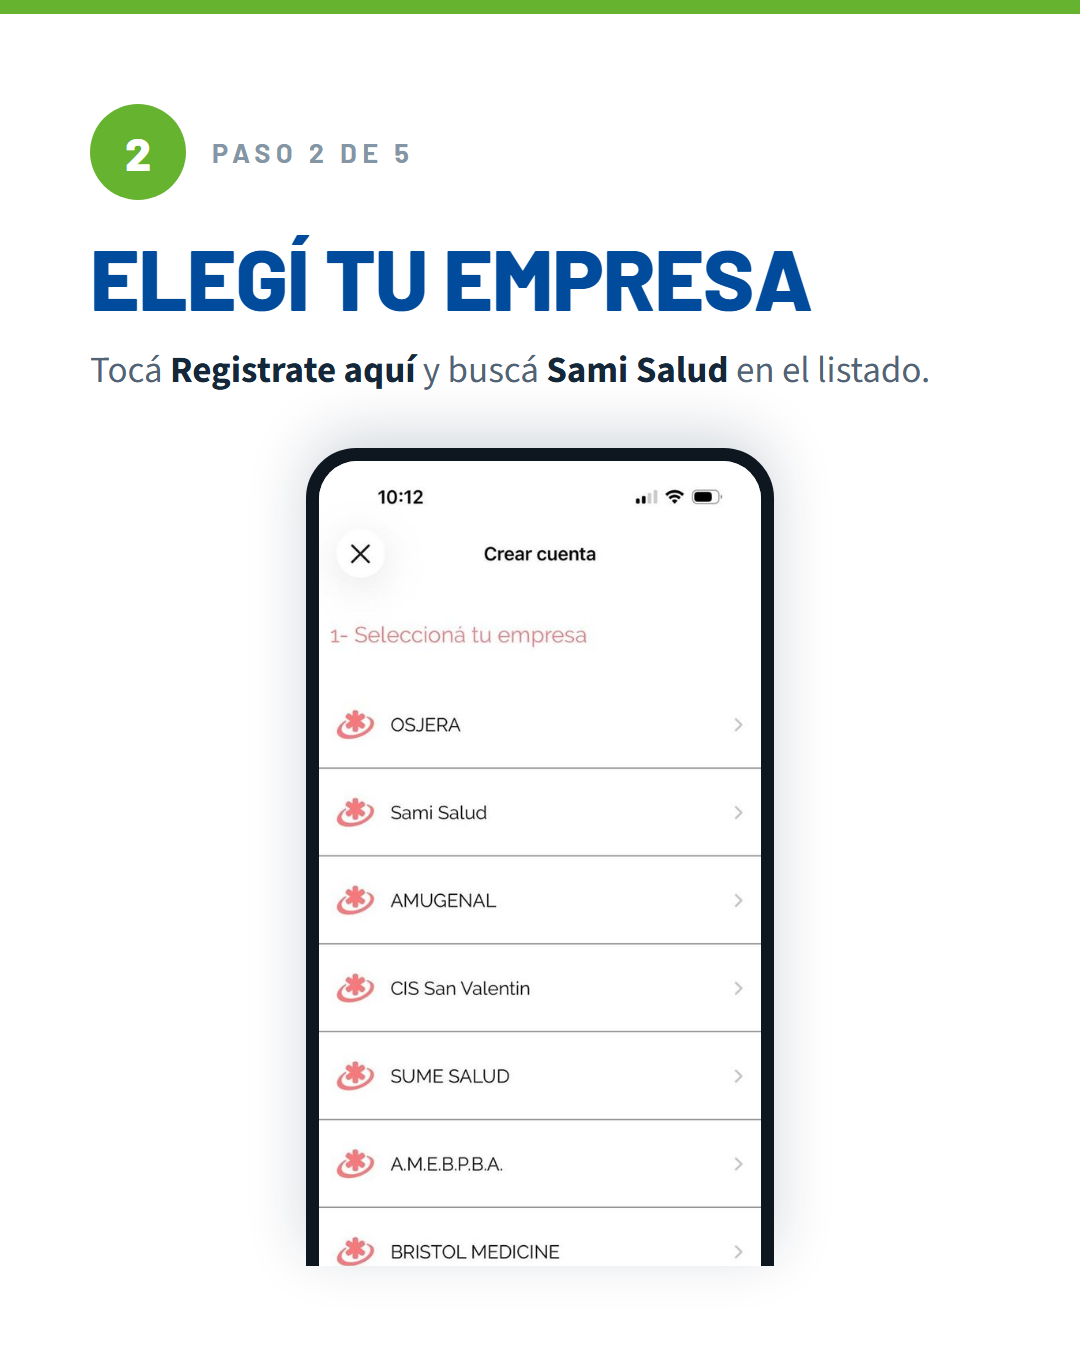
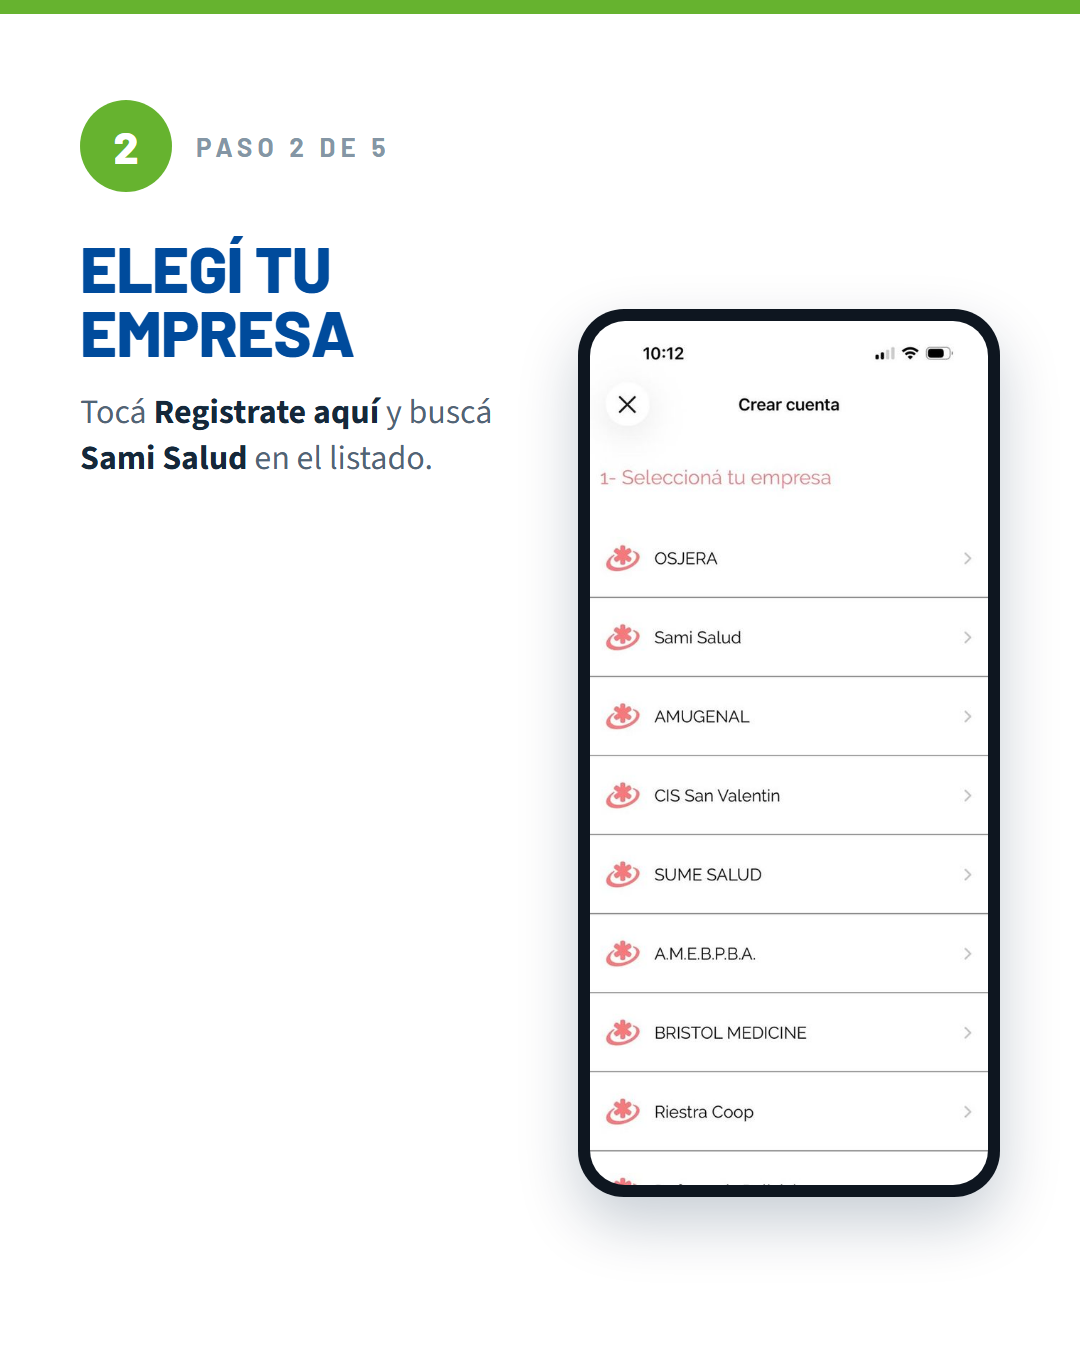
Muestra la captura completa en las placas de pasos
Las cinco placas de pasos pasan a texto y telefono lado a lado. Antes la
captura se recortaba a la mitad con object-fit cover: en el paso 4 eso cortaba
el modal de especialidades justo donde arranca la lista, que es lo que el paso
explica.

Los titulos quedan alineados arriba en las cinco, asi la secuencia no salta al
deslizar, y el telefono centrado al costado.

Claude-Session: https://claude.ai/code/session_01TkhpLYmWCBEFxFt42UGiKe

Changed region(s): [[0.0611, 0.1556, 0.9472, 0.9333], [0.0611, 0.0622, 0.3972, 0.1556]]

diff --git a/instagram/Cierre.dc.html b/instagram/Cierre.dc.html
@@ -14,28 +14,29 @@
   </style>
 </helmet>
 
-<div style="width: 1080px; height: 1350px; position: relative; overflow: hidden; background: #ffffff; display: flex; flex-direction: column; padding: 104px 90px 268px; box-sizing: border-box;">
+<div style="width: 1080px; height: 1350px; position: relative; overflow: hidden; background: #ffffff; display: flex; flex-direction: column; padding: 100px 80px 268px; box-sizing: border-box;">
 
   <div style="position: absolute; left: 0; top: 0; width: 1080px; height: 14px; background: #66B32F;"></div>
 
-  <div style="display: flex; align-items: center; gap: 26px;">
-    <div style="width: 96px; height: 96px; flex: none; border-radius: 50%; background: #66B32F; color: #ffffff; font-family: 'Barlow', 'Helvetica Neue', Arial, sans-serif; font-weight: 800; font-size: 46px; display: flex; align-items: center; justify-content: center;">5</div>
-    <div style="font-family: 'Barlow', 'Helvetica Neue', Arial, sans-serif; font-weight: 700; font-size: 27px; letter-spacing: 0.2em; text-transform: uppercase; color: #8496A5;">Paso 5 de 5</div>
+  <div style="display: flex; align-items: center; gap: 24px;">
+    <div style="width: 92px; height: 92px; flex: none; border-radius: 50%; background: #66B32F; color: #ffffff; font-family: 'Barlow', 'Helvetica Neue', Arial, sans-serif; font-weight: 800; font-size: 44px; display: flex; align-items: center; justify-content: center;">5</div>
+    <div style="font-family: 'Barlow', 'Helvetica Neue', Arial, sans-serif; font-weight: 700; font-size: 26px; letter-spacing: 0.2em; text-transform: uppercase; color: #8496A5;">Paso 5 de 5</div>
   </div>
 
-  <h2 style="margin: 34px 0 0; font-family: 'Barlow', 'Helvetica Neue', Arial, sans-serif; font-weight: 800; font-size: 86px; line-height: 1.0; letter-spacing: -0.012em; text-transform: uppercase; color: #004B9C;">Esperá tu llamada</h2>
+  <div style="flex: 1; min-height: 0; display: flex; align-items: stretch; gap: 54px; margin-top: 44px;">
 
-  <p style="margin: 26px 0 0; font-size: 37px; line-height: 1.35; color: #516475; text-wrap: pretty;">La app te muestra cuántas personas hay adelante tuyo. Cuando se libera un médico, te llama.</p>
-
-  <div style="flex: 1; min-height: 0; display: flex; justify-content: center; align-items: flex-end; margin-top: 46px;">
-    <div style="width: 452px; height: 100%; background: #0E1620; border-radius: 48px 48px 0 0; padding: 13px 13px 0; box-sizing: border-box;">
-      <div style="height: 100%; border-radius: 36px 36px 0 0; overflow: hidden; background: #fff;">
-        <img src="app-05-espera.jpg" alt="Sala de espera con la cantidad de personas en la fila" style="width: 100%; height: 100%; object-fit: cover; object-position: top center; display: block;">
-      </div>
+    <div style="flex: 1; min-width: 0; display: flex; flex-direction: column; justify-content: flex-start;">
+      <h2 style="margin: 0; font-family: 'Barlow', 'Helvetica Neue', Arial, sans-serif; font-weight: 800; font-size: 64px; line-height: 1.0; letter-spacing: -0.012em; text-transform: uppercase; color: #004B9C;">Esperá tu llamada</h2>
+      <p style="margin: 26px 0 0; font-size: 34px; line-height: 1.36; color: #516475; text-wrap: pretty;">La app te muestra cuántas personas hay adelante tuyo. Cuando se libera un médico, te llama.</p>
     </div>
+
+    <div style="flex: none; align-self: center; width: 390px; background: #0E1620; border-radius: 44px; padding: 12px; box-sizing: border-box; box-shadow: 0 26px 60px rgba(0,32,66,0.22);">
+      <img src="app-05-espera.jpg" alt="Sala de espera con la cantidad de personas en la fila" style="width: 100%; height: auto; display: block; border-radius: 33px;">
+    </div>
+
   </div>
 
-  <div style="position: absolute; left: 0; bottom: 0; width: 1080px; height: 236px; background: #004B9C; display: flex; align-items: center; gap: 44px; padding: 0 90px; box-sizing: border-box;">
+  <div style="position: absolute; left: 0; bottom: 0; width: 1080px; height: 236px; background: #004B9C; display: flex; align-items: center; gap: 44px; padding: 0 80px; box-sizing: border-box;">
     <img src="sami-logo-blanco.png" alt="Sami Salud" style="width: 246px; height: auto; flex: none; display: block;">
     <div style="width: 3px; height: 108px; background: rgba(255,255,255,0.28); flex: none;"></div>
     <div style="display: flex; flex-direction: column; gap: 10px;">

diff --git a/instagram/Paso2.dc.html b/instagram/Paso2.dc.html
@@ -14,25 +14,26 @@
   </style>
 </helmet>
 
-<div style="width: 1080px; height: 1350px; position: relative; overflow: hidden; background: #ffffff; display: flex; flex-direction: column; padding: 104px 90px 84px; box-sizing: border-box;">
+<div style="width: 1080px; height: 1350px; position: relative; overflow: hidden; background: #ffffff; display: flex; flex-direction: column; padding: 100px 80px 80px; box-sizing: border-box;">
 
   <div style="position: absolute; left: 0; top: 0; width: 1080px; height: 14px; background: #66B32F;"></div>
 
-  <div style="display: flex; align-items: center; gap: 26px;">
-    <div style="width: 96px; height: 96px; flex: none; border-radius: 50%; background: #66B32F; color: #ffffff; font-family: 'Barlow', 'Helvetica Neue', Arial, sans-serif; font-weight: 800; font-size: 46px; display: flex; align-items: center; justify-content: center;">2</div>
-    <div style="font-family: 'Barlow', 'Helvetica Neue', Arial, sans-serif; font-weight: 700; font-size: 27px; letter-spacing: 0.2em; text-transform: uppercase; color: #8496A5;">Paso 2 de 5</div>
+  <div style="display: flex; align-items: center; gap: 24px;">
+    <div style="width: 92px; height: 92px; flex: none; border-radius: 50%; background: #66B32F; color: #ffffff; font-family: 'Barlow', 'Helvetica Neue', Arial, sans-serif; font-weight: 800; font-size: 44px; display: flex; align-items: center; justify-content: center;">2</div>
+    <div style="font-family: 'Barlow', 'Helvetica Neue', Arial, sans-serif; font-weight: 700; font-size: 26px; letter-spacing: 0.2em; text-transform: uppercase; color: #8496A5;">Paso 2 de 5</div>
   </div>
 
-  <h2 style="margin: 34px 0 0; font-family: 'Barlow', 'Helvetica Neue', Arial, sans-serif; font-weight: 800; font-size: 86px; line-height: 1.0; letter-spacing: -0.012em; text-transform: uppercase; color: #004B9C;">Elegí tu empresa</h2>
+  <div style="flex: 1; min-height: 0; display: flex; align-items: stretch; gap: 54px; margin-top: 44px;">
 
-  <p style="margin: 26px 0 0; font-size: 37px; line-height: 1.35; color: #516475; text-wrap: pretty;">Tocá <strong style="color: #15283A;">Registrate aquí</strong> y buscá <strong style="color: #15283A;">Sami Salud</strong> en el listado.</p>
-
-  <div style="flex: 1; min-height: 0; display: flex; justify-content: center; align-items: flex-end; margin-top: 52px;">
-    <div style="width: 468px; height: 100%; background: #0E1620; border-radius: 50px 50px 0 0; padding: 13px 13px 0; box-sizing: border-box; box-shadow: 0 -14px 60px rgba(0,32,66,0.18);">
-      <div style="height: 100%; border-radius: 38px 38px 0 0; overflow: hidden; background: #fff;">
-        <img src="app-02-empresa.jpg" alt="Lista de empresas con Sami Salud" style="width: 100%; height: 100%; object-fit: cover; object-position: top center; display: block;">
-      </div>
+    <div style="flex: 1; min-width: 0; display: flex; flex-direction: column; justify-content: flex-start;">
+      <h2 style="margin: 0; font-family: 'Barlow', 'Helvetica Neue', Arial, sans-serif; font-weight: 800; font-size: 64px; line-height: 1.0; letter-spacing: -0.012em; text-transform: uppercase; color: #004B9C;">Elegí tu empresa</h2>
+      <p style="margin: 26px 0 0; font-size: 34px; line-height: 1.36; color: #516475; text-wrap: pretty;">Tocá <strong style="color: #15283A;">Registrate aquí</strong> y buscá <strong style="color: #15283A;">Sami Salud</strong> en el listado.</p>
     </div>
+
+    <div style="flex: none; align-self: center; width: 422px; background: #0E1620; border-radius: 46px; padding: 12px; box-sizing: border-box; box-shadow: 0 26px 60px rgba(0,32,66,0.22);">
+      <img src="app-02-empresa.jpg" alt="Lista de empresas con Sami Salud" style="width: 100%; height: auto; display: block; border-radius: 35px;">
+    </div>
+
   </div>
 
 </div>

diff --git a/instagram/Paso3.dc.html b/instagram/Paso3.dc.html
@@ -14,25 +14,26 @@
   </style>
 </helmet>
 
-<div style="width: 1080px; height: 1350px; position: relative; overflow: hidden; background: #ffffff; display: flex; flex-direction: column; padding: 104px 90px 84px; box-sizing: border-box;">
+<div style="width: 1080px; height: 1350px; position: relative; overflow: hidden; background: #ffffff; display: flex; flex-direction: column; padding: 100px 80px 80px; box-sizing: border-box;">
 
   <div style="position: absolute; left: 0; top: 0; width: 1080px; height: 14px; background: #66B32F;"></div>
 
-  <div style="display: flex; align-items: center; gap: 26px;">
-    <div style="width: 96px; height: 96px; flex: none; border-radius: 50%; background: #66B32F; color: #ffffff; font-family: 'Barlow', 'Helvetica Neue', Arial, sans-serif; font-weight: 800; font-size: 46px; display: flex; align-items: center; justify-content: center;">3</div>
-    <div style="font-family: 'Barlow', 'Helvetica Neue', Arial, sans-serif; font-weight: 700; font-size: 27px; letter-spacing: 0.2em; text-transform: uppercase; color: #8496A5;">Paso 3 de 5</div>
+  <div style="display: flex; align-items: center; gap: 24px;">
+    <div style="width: 92px; height: 92px; flex: none; border-radius: 50%; background: #66B32F; color: #ffffff; font-family: 'Barlow', 'Helvetica Neue', Arial, sans-serif; font-weight: 800; font-size: 44px; display: flex; align-items: center; justify-content: center;">3</div>
+    <div style="font-family: 'Barlow', 'Helvetica Neue', Arial, sans-serif; font-weight: 700; font-size: 26px; letter-spacing: 0.2em; text-transform: uppercase; color: #8496A5;">Paso 3 de 5</div>
   </div>
 
-  <h2 style="margin: 34px 0 0; font-family: 'Barlow', 'Helvetica Neue', Arial, sans-serif; font-weight: 800; font-size: 86px; line-height: 1.0; letter-spacing: -0.012em; text-transform: uppercase; color: #004B9C;">Creá tu cuenta</h2>
+  <div style="flex: 1; min-height: 0; display: flex; align-items: stretch; gap: 54px; margin-top: 44px;">
 
-  <p style="margin: 26px 0 0; font-size: 37px; line-height: 1.35; color: #516475; text-wrap: pretty;">Completá tu <strong style="color: #15283A;">DNI</strong>, tu mail y una contraseña, y aceptá los términos y condiciones.</p>
-
-  <div style="flex: 1; min-height: 0; display: flex; justify-content: center; align-items: flex-end; margin-top: 52px;">
-    <div style="width: 468px; height: 100%; background: #0E1620; border-radius: 50px 50px 0 0; padding: 13px 13px 0; box-sizing: border-box; box-shadow: 0 -14px 60px rgba(0,32,66,0.18);">
-      <div style="height: 100%; border-radius: 38px 38px 0 0; overflow: hidden; background: #fff;">
-        <img src="app-03-cuenta.jpg" alt="Formulario de creación de cuenta" style="width: 100%; height: 100%; object-fit: cover; object-position: top center; display: block;">
-      </div>
+    <div style="flex: 1; min-width: 0; display: flex; flex-direction: column; justify-content: flex-start;">
+      <h2 style="margin: 0; font-family: 'Barlow', 'Helvetica Neue', Arial, sans-serif; font-weight: 800; font-size: 64px; line-height: 1.0; letter-spacing: -0.012em; text-transform: uppercase; color: #004B9C;">Creá tu cuenta</h2>
+      <p style="margin: 26px 0 0; font-size: 34px; line-height: 1.36; color: #516475; text-wrap: pretty;">Completá tu <strong style="color: #15283A;">DNI</strong>, tu mail y una contraseña, y aceptá los términos y condiciones.</p>
     </div>
+
+    <div style="flex: none; align-self: center; width: 422px; background: #0E1620; border-radius: 46px; padding: 12px; box-sizing: border-box; box-shadow: 0 26px 60px rgba(0,32,66,0.22);">
+      <img src="app-03-cuenta.jpg" alt="Formulario de creación de cuenta" style="width: 100%; height: auto; display: block; border-radius: 35px;">
+    </div>
+
   </div>
 
 </div>

diff --git a/instagram/Paso4.dc.html b/instagram/Paso4.dc.html
@@ -14,25 +14,26 @@
   </style>
 </helmet>
 
-<div style="width: 1080px; height: 1350px; position: relative; overflow: hidden; background: #ffffff; display: flex; flex-direction: column; padding: 104px 90px 84px; box-sizing: border-box;">
+<div style="width: 1080px; height: 1350px; position: relative; overflow: hidden; background: #ffffff; display: flex; flex-direction: column; padding: 100px 80px 80px; box-sizing: border-box;">
 
   <div style="position: absolute; left: 0; top: 0; width: 1080px; height: 14px; background: #66B32F;"></div>
 
-  <div style="display: flex; align-items: center; gap: 26px;">
-    <div style="width: 96px; height: 96px; flex: none; border-radius: 50%; background: #66B32F; color: #ffffff; font-family: 'Barlow', 'Helvetica Neue', Arial, sans-serif; font-weight: 800; font-size: 46px; display: flex; align-items: center; justify-content: center;">4</div>
-    <div style="font-family: 'Barlow', 'Helvetica Neue', Arial, sans-serif; font-weight: 700; font-size: 27px; letter-spacing: 0.2em; text-transform: uppercase; color: #8496A5;">Paso 4 de 5</div>
+  <div style="display: flex; align-items: center; gap: 24px;">
+    <div style="width: 92px; height: 92px; flex: none; border-radius: 50%; background: #66B32F; color: #ffffff; font-family: 'Barlow', 'Helvetica Neue', Arial, sans-serif; font-weight: 800; font-size: 44px; display: flex; align-items: center; justify-content: center;">4</div>
+    <div style="font-family: 'Barlow', 'Helvetica Neue', Arial, sans-serif; font-weight: 700; font-size: 26px; letter-spacing: 0.2em; text-transform: uppercase; color: #8496A5;">Paso 4 de 5</div>
   </div>
 
-  <h2 style="margin: 34px 0 0; font-family: 'Barlow', 'Helvetica Neue', Arial, sans-serif; font-weight: 800; font-size: 86px; line-height: 1.0; letter-spacing: -0.012em; text-transform: uppercase; color: #004B9C;">Pedí tu consulta</h2>
+  <div style="flex: 1; min-height: 0; display: flex; align-items: stretch; gap: 54px; margin-top: 44px;">
 
-  <p style="margin: 26px 0 0; font-size: 37px; line-height: 1.35; color: #516475; text-wrap: pretty;">Tocá <strong style="color: #15283A;">Sacar turno</strong> y elegí la especialidad del médico que querés que te atienda.</p>
-
-  <div style="flex: 1; min-height: 0; display: flex; justify-content: center; align-items: flex-end; margin-top: 52px;">
-    <div style="width: 468px; height: 100%; background: #0E1620; border-radius: 50px 50px 0 0; padding: 13px 13px 0; box-sizing: border-box; box-shadow: 0 -14px 60px rgba(0,32,66,0.18);">
-      <div style="height: 100%; border-radius: 38px 38px 0 0; overflow: hidden; background: #fff;">
-        <img src="app-04-especialidad.jpg" alt="Selección de especialidad" style="width: 100%; height: 100%; object-fit: cover; object-position: top center; display: block;">
-      </div>
+    <div style="flex: 1; min-width: 0; display: flex; flex-direction: column; justify-content: flex-start;">
+      <h2 style="margin: 0; font-family: 'Barlow', 'Helvetica Neue', Arial, sans-serif; font-weight: 800; font-size: 64px; line-height: 1.0; letter-spacing: -0.012em; text-transform: uppercase; color: #004B9C;">Pedí tu consulta</h2>
+      <p style="margin: 26px 0 0; font-size: 34px; line-height: 1.36; color: #516475; text-wrap: pretty;">Tocá <strong style="color: #15283A;">Sacar turno</strong> y elegí la especialidad del médico que querés que te atienda.</p>
     </div>
+
+    <div style="flex: none; align-self: center; width: 422px; background: #0E1620; border-radius: 46px; padding: 12px; box-sizing: border-box; box-shadow: 0 26px 60px rgba(0,32,66,0.22);">
+      <img src="app-04-especialidad.jpg" alt="Selección de especialidad" style="width: 100%; height: auto; display: block; border-radius: 35px;">
+    </div>
+
   </div>
 
 </div>

diff --git a/instagram/Paso1.dc.html b/instagram/Paso1.dc.html
@@ -14,25 +14,26 @@
   </style>
 </helmet>
 
-<div style="width: 1080px; height: 1350px; position: relative; overflow: hidden; background: #ffffff; display: flex; flex-direction: column; padding: 104px 90px 84px; box-sizing: border-box;">
+<div style="width: 1080px; height: 1350px; position: relative; overflow: hidden; background: #ffffff; display: flex; flex-direction: column; padding: 100px 80px 80px; box-sizing: border-box;">
 
   <div style="position: absolute; left: 0; top: 0; width: 1080px; height: 14px; background: #66B32F;"></div>
 
-  <div style="display: flex; align-items: center; gap: 26px;">
-    <div style="width: 96px; height: 96px; flex: none; border-radius: 50%; background: #66B32F; color: #ffffff; font-family: 'Barlow', 'Helvetica Neue', Arial, sans-serif; font-weight: 800; font-size: 46px; display: flex; align-items: center; justify-content: center;">1</div>
-    <div style="font-family: 'Barlow', 'Helvetica Neue', Arial, sans-serif; font-weight: 700; font-size: 27px; letter-spacing: 0.2em; text-transform: uppercase; color: #8496A5;">Paso 1 de 5</div>
+  <div style="display: flex; align-items: center; gap: 24px;">
+    <div style="width: 92px; height: 92px; flex: none; border-radius: 50%; background: #66B32F; color: #ffffff; font-family: 'Barlow', 'Helvetica Neue', Arial, sans-serif; font-weight: 800; font-size: 44px; display: flex; align-items: center; justify-content: center;">1</div>
+    <div style="font-family: 'Barlow', 'Helvetica Neue', Arial, sans-serif; font-weight: 700; font-size: 26px; letter-spacing: 0.2em; text-transform: uppercase; color: #8496A5;">Paso 1 de 5</div>
   </div>
 
-  <h2 style="margin: 34px 0 0; font-family: 'Barlow', 'Helvetica Neue', Arial, sans-serif; font-weight: 800; font-size: 86px; line-height: 1.0; letter-spacing: -0.012em; text-transform: uppercase; color: #004B9C;">Descargá la app</h2>
+  <div style="flex: 1; min-height: 0; display: flex; align-items: stretch; gap: 54px; margin-top: 44px;">
 
-  <p style="margin: 26px 0 0; font-size: 37px; line-height: 1.35; color: #516475; text-wrap: pretty;">Buscá <strong style="color: #15283A;">Doctor en Casa · Convenios</strong> en Play Store o App Store.</p>
-
-  <div style="flex: 1; min-height: 0; display: flex; justify-content: center; align-items: flex-end; margin-top: 52px;">
-    <div style="width: 468px; height: 100%; background: #0E1620; border-radius: 50px 50px 0 0; padding: 13px 13px 0; box-sizing: border-box; box-shadow: 0 -14px 60px rgba(0,32,66,0.18);">
-      <div style="height: 100%; border-radius: 38px 38px 0 0; overflow: hidden; background: #fff;">
-        <img src="app-01-ingreso.jpg" alt="Pantalla de ingreso de la app" style="width: 100%; height: 100%; object-fit: cover; object-position: top center; display: block;">
-      </div>
+    <div style="flex: 1; min-width: 0; display: flex; flex-direction: column; justify-content: flex-start;">
+      <h2 style="margin: 0; font-family: 'Barlow', 'Helvetica Neue', Arial, sans-serif; font-weight: 800; font-size: 64px; line-height: 1.0; letter-spacing: -0.012em; text-transform: uppercase; color: #004B9C;">Descargá la app</h2>
+      <p style="margin: 26px 0 0; font-size: 34px; line-height: 1.36; color: #516475; text-wrap: pretty;">Buscá <strong style="color: #15283A;">Doctor en Casa · Convenios</strong> en Play Store o App Store.</p>
     </div>
+
+    <div style="flex: none; align-self: center; width: 422px; background: #0E1620; border-radius: 46px; padding: 12px; box-sizing: border-box; box-shadow: 0 26px 60px rgba(0,32,66,0.22);">
+      <img src="app-01-ingreso.jpg" alt="Pantalla de ingreso de la app" style="width: 100%; height: auto; display: block; border-radius: 35px;">
+    </div>
+
   </div>
 
 </div>
